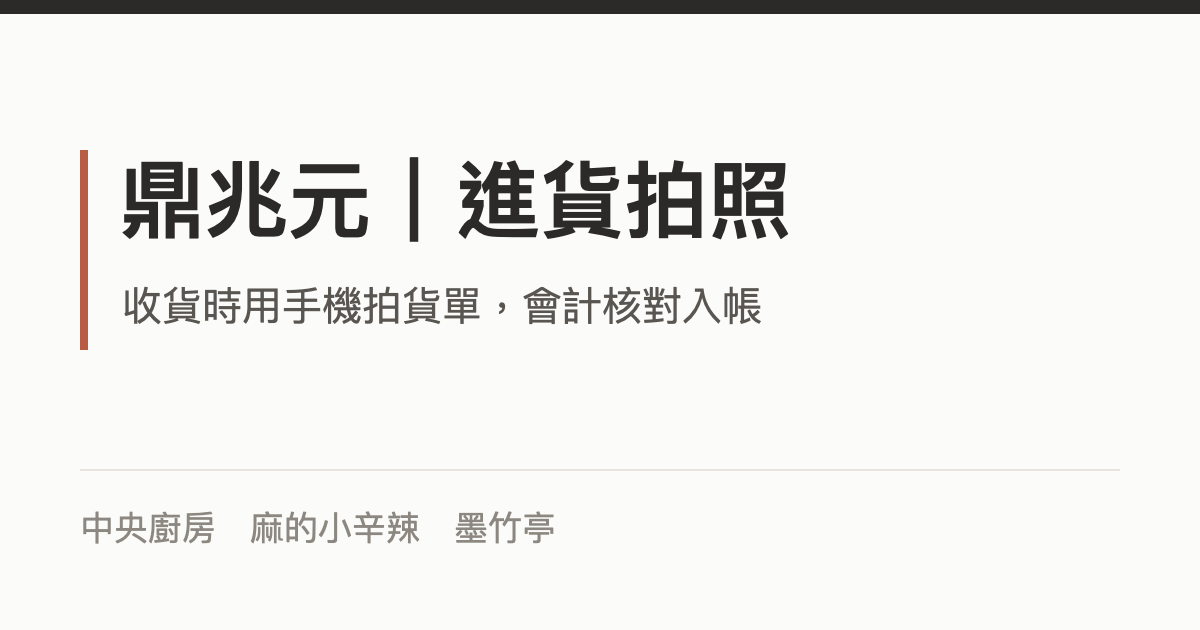
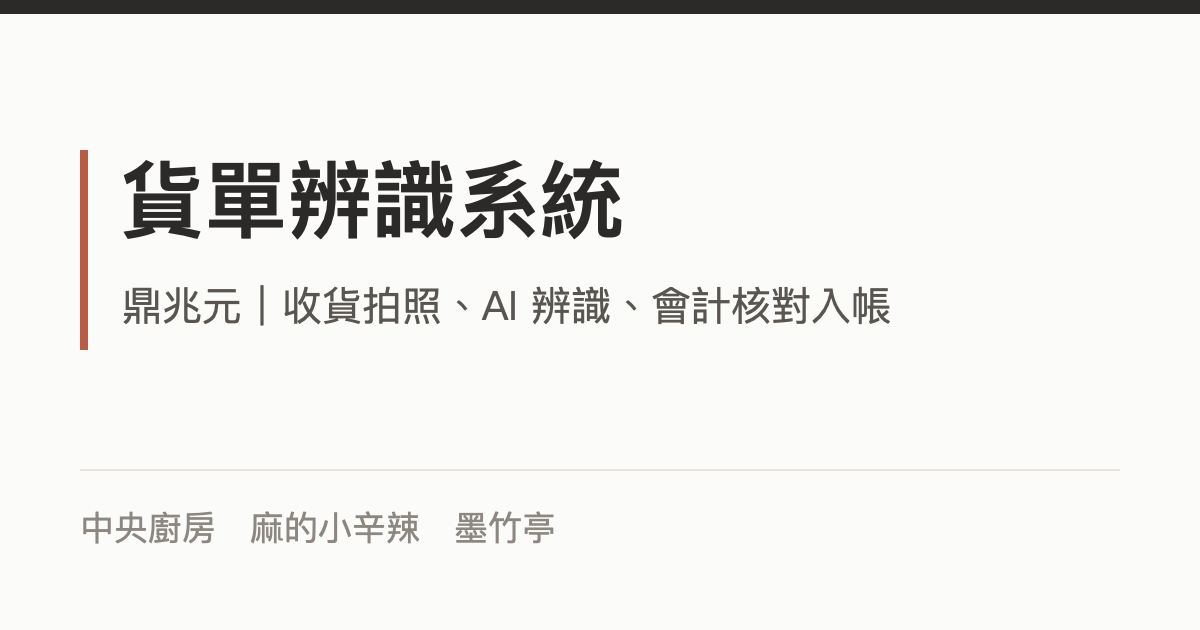
fix: 含稅單稅額≥總額視為不相符（審查 🟡）；預設密碼提示 000000；系統更名為貨單辨識系統

Changed region(s): [[0.0925, 0.2413, 0.6783, 0.3921], [0.3392, 0.4524, 0.74, 0.5127], [0.0925, 0.4524, 0.3083, 0.5127]]

diff --git a/web/upload.html b/web/upload.html
@@ -4,12 +4,12 @@
 <meta charset="utf-8">
 <meta name="viewport" content="width=device-width,initial-scale=1">
 <meta name="theme-color" content="#FBFBF9">
-<title>門市進貨拍照｜鼎兆元</title>
-<meta name="description" content="鼎兆元｜門市收貨時用手機拍廠商貨單，送出即可，會計會在後台核對入帳。">
+<title>門市上傳｜貨單辨識系統</title>
+<meta name="description" content="鼎兆元貨單辨識系統｜門市收貨時用手機拍廠商貨單，送出即可，會計會在後台核對入帳。">
 <meta property="og:type" content="website">
-<meta property="og:site_name" content="鼎兆元">
-<meta property="og:title" content="門市進貨拍照">
-<meta property="og:description" content="鼎兆元｜門市收貨時用手機拍廠商貨單，送出即可，會計會在後台核對入帳。">
+<meta property="og:site_name" content="鼎兆元貨單辨識系統｜貨單辨識系統">
+<meta property="og:title" content="貨單辨識系統｜門市上傳">
+<meta property="og:description" content="鼎兆元貨單辨識系統｜門市收貨時用手機拍廠商貨單，送出即可，會計會在後台核對入帳。">
 <meta property="og:url" content="https://dzy-bulletin.github.io/dzy-purchase/upload.html">
 <meta property="og:image" content="https://dzy-bulletin.github.io/dzy-purchase/img/og.png">
 <meta property="og:image:width" content="1200">
@@ -281,7 +281,7 @@ $('refresh').onclick = loadMine;
 
 Common.gate({
   title: '貨單上傳', roles: ['store'], roleError: '這是門市專用頁面，請用門市代號登入（會計與管理者請到核對頁）', upper: true,
-  pwHint: '第一次使用：請輸入店長給你的臨時密碼，登入後系統會請你設定自己的新密碼。忘記密碼請找店長重設。',
+  pwHint: '第一次使用的預設密碼是 000000，登入後系統會請你設定自己的新密碼。忘記密碼請找管理者重設。',
   loginHint: '請用門市代號登入（例如 MDGF）', accLabel: '門市代號',
   onReady: function (s) { $('who').textContent = s.name || s.store_id || ''; $('ver').textContent = CFG.VERSION; loadVendors(); loadMine(); updatePending(); flush(); }
 });

diff --git a/web/review.html b/web/review.html
@@ -4,12 +4,12 @@
 <meta charset="utf-8">
 <meta name="viewport" content="width=device-width,initial-scale=1">
 <meta name="theme-color" content="#FBFBF9">
-<title>會計貨單核對｜鼎兆元</title>
-<meta name="description" content="鼎兆元｜會計核對門市上傳的貨單：對照照片確認品項、數量、金額後入帳。">
+<title>會計核對｜貨單辨識系統</title>
+<meta name="description" content="鼎兆元貨單辨識系統｜會計核對門市上傳的貨單：對照照片確認品項、數量、金額後入帳。">
 <meta property="og:type" content="website">
-<meta property="og:site_name" content="鼎兆元">
-<meta property="og:title" content="會計貨單核對">
-<meta property="og:description" content="鼎兆元｜會計核對門市上傳的貨單：對照照片確認品項、數量、金額後入帳。">
+<meta property="og:site_name" content="鼎兆元貨單辨識系統｜貨單辨識系統">
+<meta property="og:title" content="貨單辨識系統｜會計核對">
+<meta property="og:description" content="鼎兆元貨單辨識系統｜會計核對門市上傳的貨單：對照照片確認品項、數量、金額後入帳。">
 <meta property="og:url" content="https://dzy-bulletin.github.io/dzy-purchase/review.html">
 <meta property="og:image" content="https://dzy-bulletin.github.io/dzy-purchase/img/og.png">
 <meta property="og:image:width" content="1200">

diff --git a/web/reports.html b/web/reports.html
@@ -4,12 +4,12 @@
 <meta charset="utf-8">
 <meta name="viewport" content="width=device-width,initial-scale=1">
 <meta name="theme-color" content="#FBFBF9">
-<title>進貨報表｜鼎兆元</title>
-<meta name="description" content="鼎兆元｜當月食材成本、品項單價走勢與價格變動提醒。">
+<title>報表｜貨單辨識系統</title>
+<meta name="description" content="鼎兆元貨單辨識系統｜當月食材成本、品項單價走勢與價格變動提醒。">
 <meta property="og:type" content="website">
-<meta property="og:site_name" content="鼎兆元">
-<meta property="og:title" content="進貨報表">
-<meta property="og:description" content="鼎兆元｜當月食材成本、品項單價走勢與價格變動提醒。">
+<meta property="og:site_name" content="鼎兆元貨單辨識系統｜貨單辨識系統">
+<meta property="og:title" content="貨單辨識系統｜報表">
+<meta property="og:description" content="鼎兆元貨單辨識系統｜當月食材成本、品項單價走勢與價格變動提醒。">
 <meta property="og:url" content="https://dzy-bulletin.github.io/dzy-purchase/reports.html">
 <meta property="og:image" content="https://dzy-bulletin.github.io/dzy-purchase/img/og.png">
 <meta property="og:image:width" content="1200">

diff --git a/web/admin.html b/web/admin.html
@@ -4,12 +4,12 @@
 <meta charset="utf-8">
 <meta name="viewport" content="width=device-width,initial-scale=1">
 <meta name="theme-color" content="#FBFBF9">
-<title>進貨系統設定｜鼎兆元</title>
-<meta name="description" content="鼎兆元｜品項、廠商、損益對照與帳號設定。">
+<title>設定｜貨單辨識系統</title>
+<meta name="description" content="鼎兆元貨單辨識系統｜品項、廠商、損益對照與帳號設定。">
 <meta property="og:type" content="website">
-<meta property="og:site_name" content="鼎兆元">
-<meta property="og:title" content="進貨系統設定">
-<meta property="og:description" content="鼎兆元｜品項、廠商、損益對照與帳號設定。">
+<meta property="og:site_name" content="鼎兆元貨單辨識系統｜貨單辨識系統">
+<meta property="og:title" content="貨單辨識系統｜設定">
+<meta property="og:description" content="鼎兆元貨單辨識系統｜品項、廠商、損益對照與帳號設定。">
 <meta property="og:url" content="https://dzy-bulletin.github.io/dzy-purchase/admin.html">
 <meta property="og:image" content="https://dzy-bulletin.github.io/dzy-purchase/img/og.png">
 <meta property="og:image:width" content="1200">

diff --git a/web/js/common.js b/web/js/common.js
@@ -93,7 +93,7 @@ var Common = (function () {
         (o.loginHint ? '<p class="muted">' + esc(o.loginHint) + '</p>' : '') +
         '<label class="f" style="margin-top:.8rem">' + esc(o.accLabel || '帳號') + '<input id="acc" autocomplete="username" autocapitalize="none"></label>' +
         '<label class="f" style="margin-top:.8rem">密碼<input id="pw" type="password" autocomplete="current-password"></label>' +
-        '<p class="muted" style="font-size:.85rem;margin:.4rem 0 0">' + esc(o.pwHint || '第一次使用：請輸入管理者給你的臨時密碼，登入後系統會請你設定自己的新密碼。') + '</p>' +
+        '<p class="muted" style="font-size:.85rem;margin:.4rem 0 0">' + esc(o.pwHint || '第一次使用的預設密碼是 000000，登入後系統會請你設定自己的新密碼。') + '</p>' +
         '<div id="loginMsg"></div><button id="loginBtn" class="primary" type="button" style="width:100%;margin-top:1rem;min-height:48px">登入</button></div></div>';
       $('loginBtn').onclick = doLogin;
       $('pw').addEventListener('keydown', function (e) { if (e.key === 'Enter') doLogin(); });

diff --git a/web/js/rules.js b/web/js/rules.js
@@ -12,7 +12,7 @@
     var missing = total == null || !amounts.length || amounts.some(function (a) { return a == null; });
     var sum = round2(amounts.reduce(function (s, a) { return s + (a == null ? 0 : a); }, 0));
     var ok;
-    if (taxIncluded) ok = !missing && near(sum, total) && (subtotal == null || tax == null || near(round2(subtotal + tax), total));
+    if (taxIncluded) ok = !missing && near(sum, total) && (tax == null || (tax >= 0 && tax < total)) && (subtotal == null || tax == null || near(round2(subtotal + tax), total));
     else ok = !missing && near(round2(sum + (tax == null ? 0 : tax)), total) && (subtotal == null || near(sum, subtotal));
     return { sum: sum, ok: ok, missing: missing };
   }

diff --git a/server/calc.js b/server/calc.js
@@ -64,7 +64,7 @@ function withBase(r, conv) {
   return Object.assign({}, r, { converted: ok, base_qty: ok ? Math.round(base * 10000) / 10000 : null, net_amount: net, unit_cost: ok ? round2(net / base) : null });
 }
 function netRatio(s) {
-  if (!s.tax_included || s.tax == null || !(s.total > 0)) return 1;
+  if (!s.tax_included || s.tax == null || !(s.total > 0) || s.tax < 0 || s.tax >= s.total) return 1;
   return (s.total - s.tax) / s.total;
 }
 

diff --git a/README.md b/README.md
@@ -1,4 +1,4 @@
-# dzy-purchase｜廠商貨單拍照建檔
+# dzy-purchase｜貨單辨識系統
 
 鼎兆元集團內部用：門市拍廠商貨單 → 公司 Mac mini 本機 AI 辨識 → 會計核對入帳 → 食材成本、單價走勢、推進損益系統。
 
